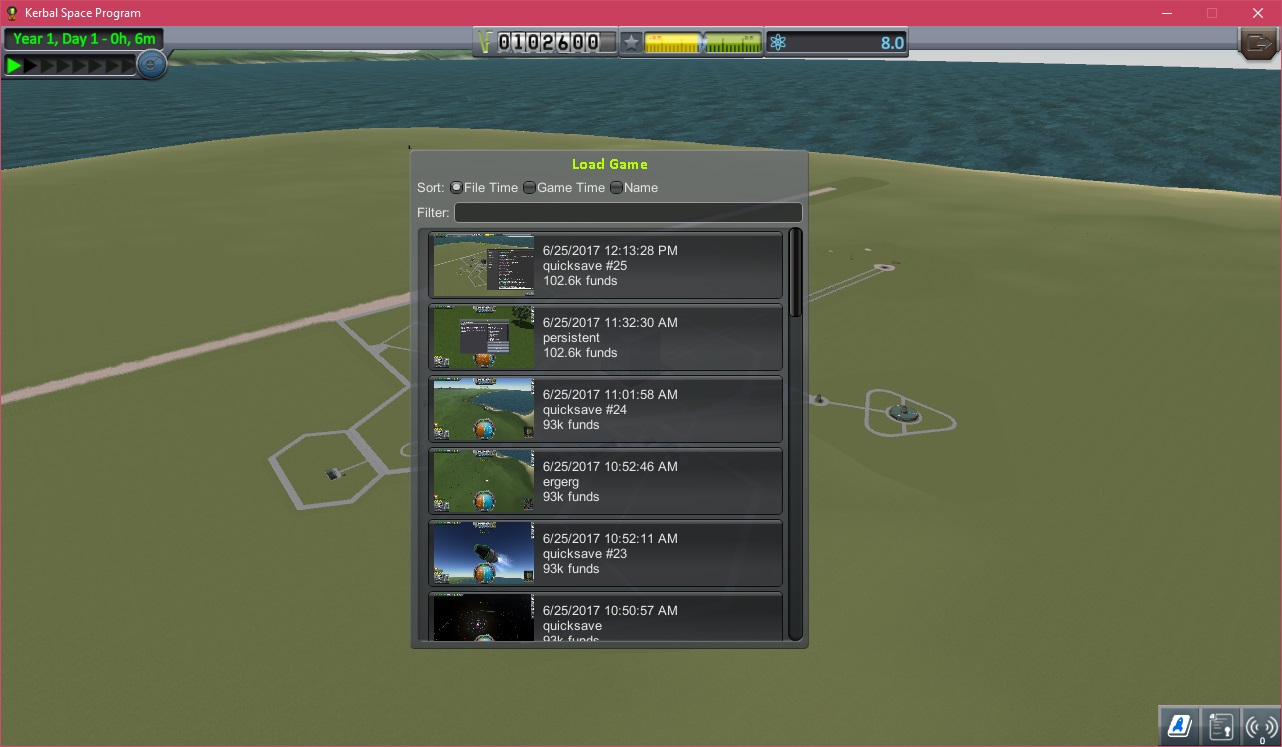
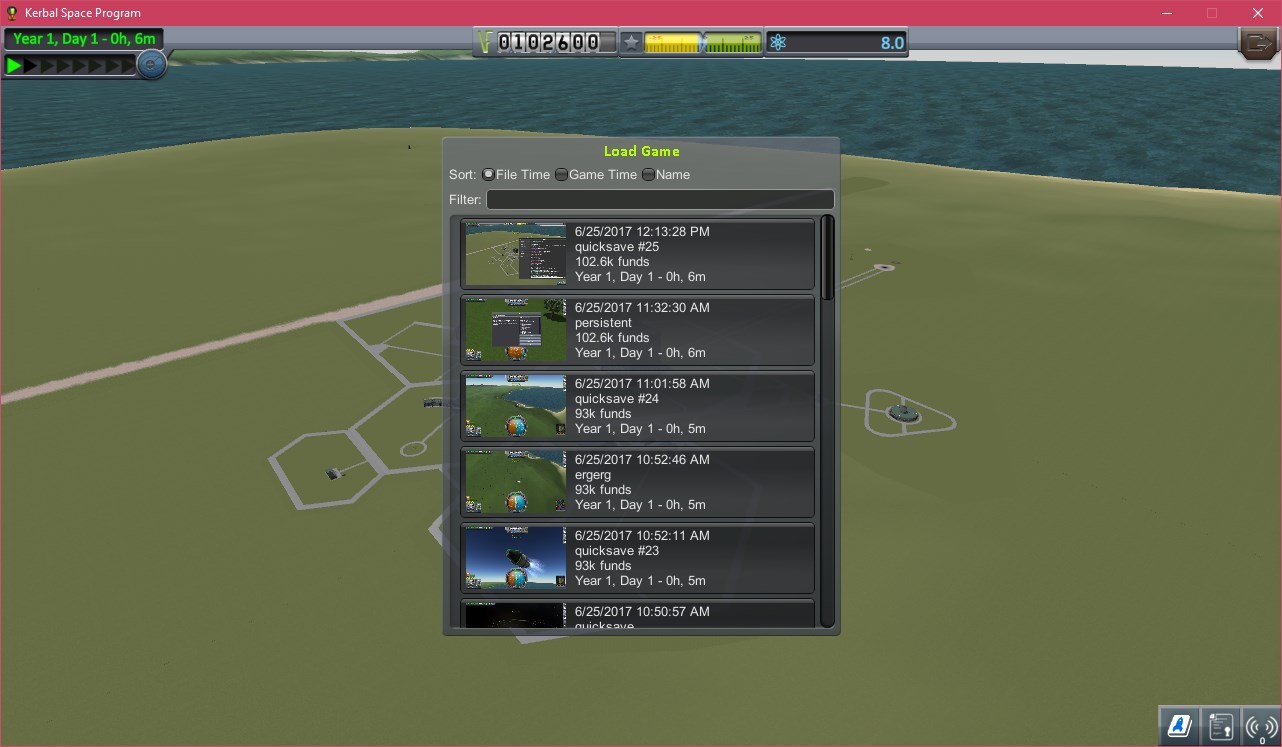
Tweak button layout

Changed region(s): [[0.312, 0.1847, 0.6552, 0.8929]]

diff --git a/src/Main.cs b/src/Main.cs
@@ -245,7 +245,7 @@ namespace BetterLoadSaveGame
                                     content.image = _placeholder;
                                 }
 
-                                if (GUILayout.Button(content, buttonStyle))
+                                if (GUILayout.Button(content, buttonStyle, GUILayout.Height(72)))
                                 {
                                     Log.Info("Clicked save: {0}", save.SaveFile.Name);
                                     _saveToLoad = save;

diff --git a/README.md b/README.md
@@ -27,8 +27,3 @@ Highly recommend also using a mod like [Dated Quick Saves](http://forum.kerbalsp
 ## Current state
 
 This is my first mod and it's a work in progress right now, and I'm planning to add more features before it's done. I've also only tested it with KSP 1.2.2 so far. If it doesn't work in another version, or you have other troubles with it, please let me know.
-
-Some changes I'd like to make:
-* Filtering/sorting options
-* Display more info about each game - maybe the active vessel name
-* Any ideas?
